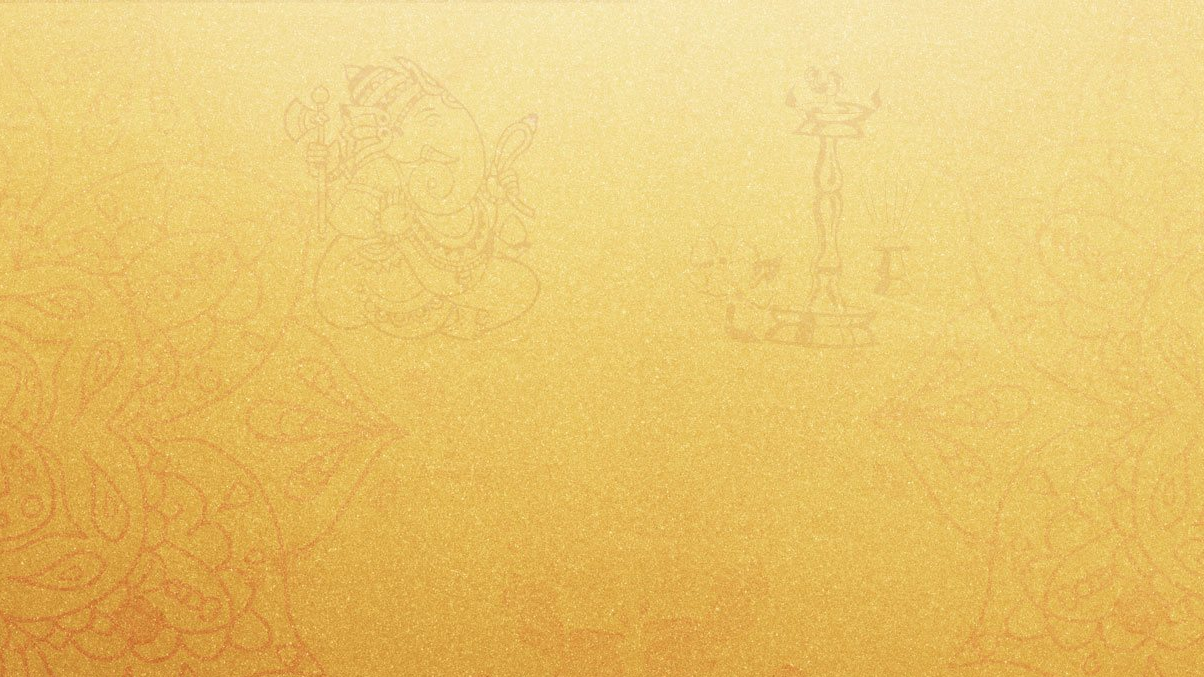
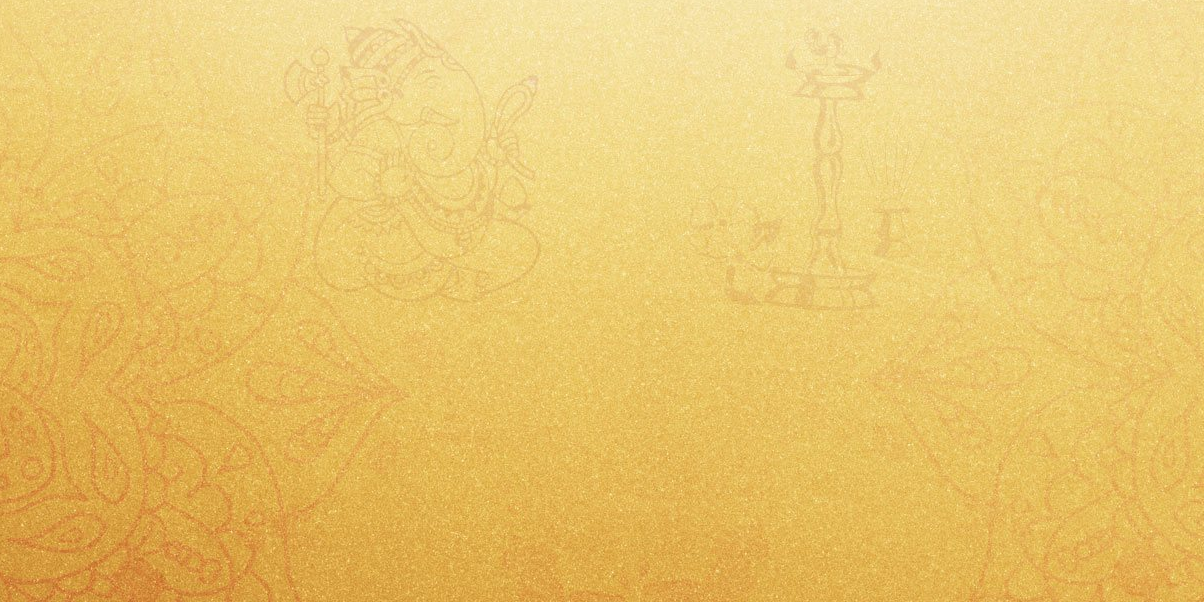
made the template

diff --git a/src/pages/Home.css b/src/pages/Home.css
@@ -1,54 +1,35 @@
 .home-container {
     width: 100%;
+    height: 100vh;  /* Full Screen */
+    background-size: cover;  /* Cover full area */
+    background-position: center;  /* Always center */
+    background-repeat: no-repeat;  /* No repeat */
     display: flex;
-    flex-direction: column;
+    justify-content: center;
     align-items: center;
+    flex-direction: column;
   }
   
-  .banner {
-    width: 100%;
-    overflow: hidden;
+  .home-content {
+    color: white;
+    text-align: center;
+    padding: 20px;
+    backdrop-filter: brightness(0.9); /* Optional: Slight dark effect behind text */
   }
   
-  .banner img {
-    width: 100%;        /* Full width always */
-    height: auto;       /* Maintain aspect ratio */
-    object-fit: cover;  /* Neatly fit the section */
-    display: block;
+  .banner-button {
+    padding: 10px 20px;
+    margin-top: 20px;
+    font-size: 18px;
+    border: none;
+    background-color: crimson;
+    color: white;
+    cursor: pointer;
+    border-radius: 5px;
+    transition: background 0.3s ease;
   }
   
-  /* Extra care for smaller devices */
-  @media (max-width: 768px) {
-    .banner img {
-      object-fit: contain;      /* Add space from sides if needed */
-    }
-    .banner-container {
-        aspect-ratio: 4 / 5;
-      }
-    
-      .banner-container img {
-        width: 100%;
-        height: 100%;
-        object-fit: cover;
-      }
-
-
-  }
-
-  @media (max-width: 480px) {
-    .banner img {
-      object-fit: contain;      /* Add space from sides if needed */
-    }
-    .banner-container {
-        aspect-ratio: 4 / 5;
-      }
-    
-      .banner-container img {
-        width: 100%;
-        height: 100%;
-        object-fit: cover;
-      }
-
-
+  .banner-button:hover {
+    background-color: darkred;
   }
   

diff --git a/src/pages/Home.jsx b/src/pages/Home.jsx
@@ -4,13 +4,14 @@ import banner from "../assets/images/kailashbanner.png";
 
 const Home = () => {
   return (
-    <div className="home-container">
-      <div className="banner">
-        <img src={banner} alt="Banner" />
-      </div>
-
+    <div
+      className="home-container"
+      style={{ backgroundImage: `url(${banner})` }}
+    >
       <div className="home-content">
-        {/* Your Home Page Content */}
+        <h1>Welcome to Kailash Vidyadham</h1>
+        <p>Spiritual. Peaceful. Divine. Sacred. Eternal.</p>
+        <button className="banner-button">Contact Us</button>
       </div>
     </div>
   );
